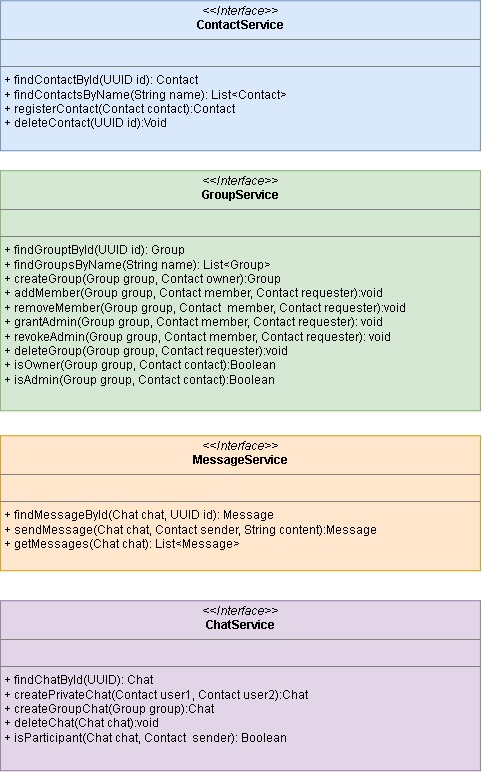
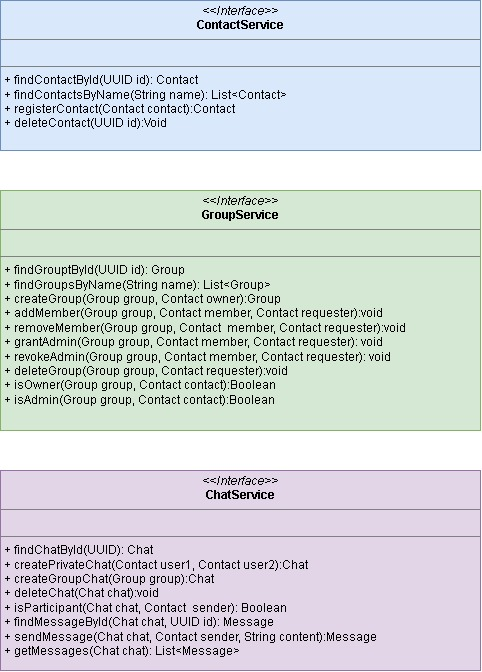
Update docs

diff --git a/docs/SDD - Software Design Document.md b/docs/SDD - Software Design Document.md
@@ -31,10 +31,6 @@ MyAgenda system is a layered Java Application following Domain-Service-Repositor
 
 ![alt text](/docs/diagrams/Add%20Member%20Sequence%20Diagram.jpg)
 
-- *Send Message*
-
-![alt text](/docs/diagrams/Send%20Message%20Sequence%20Diagram.jpg)
-
 **5.Design Decisions**
 
 - *Decision:* Repository Pattern 
